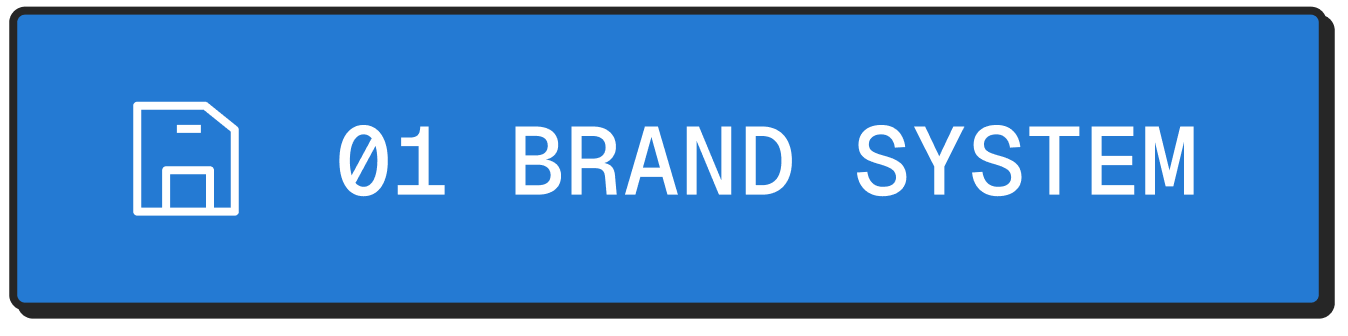
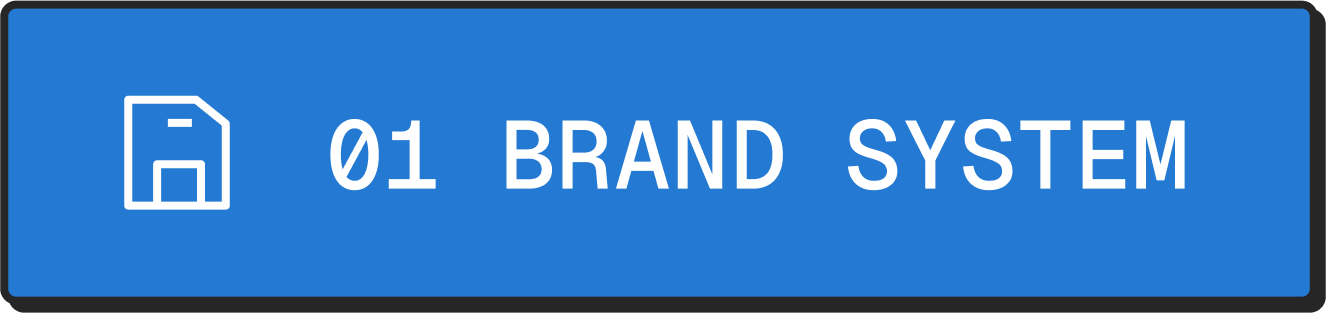
fix: normalize visual spacing between desktop cards

diff --git a/components/portfolio/portfolio.module.css b/components/portfolio/portfolio.module.css
@@ -295,13 +295,12 @@
 .selectorTrack {
   display: flex;
   align-items: stretch;
-  gap: 0;
+  gap: 8px;
 }
 .projectLink {
   position: relative;
   display: flex;
-  flex: 0 0 clamp(260px, 18.5vw, 380px);
-  width: clamp(260px, 18.5vw, 380px);
+  flex: 0 0 auto;
   height: clamp(46px, 5.5vh, 56px);
   align-items: center;
   border: 0;
@@ -316,12 +315,11 @@
 .buttonArtwork {
   position: relative;
   display: block;
-  width: 100%;
   height: 100%;
 }
 .buttonArtwork img {
   display: block;
-  width: 100%;
+  width: auto;
   height: 100%;
   max-width: none;
   user-select: none;
